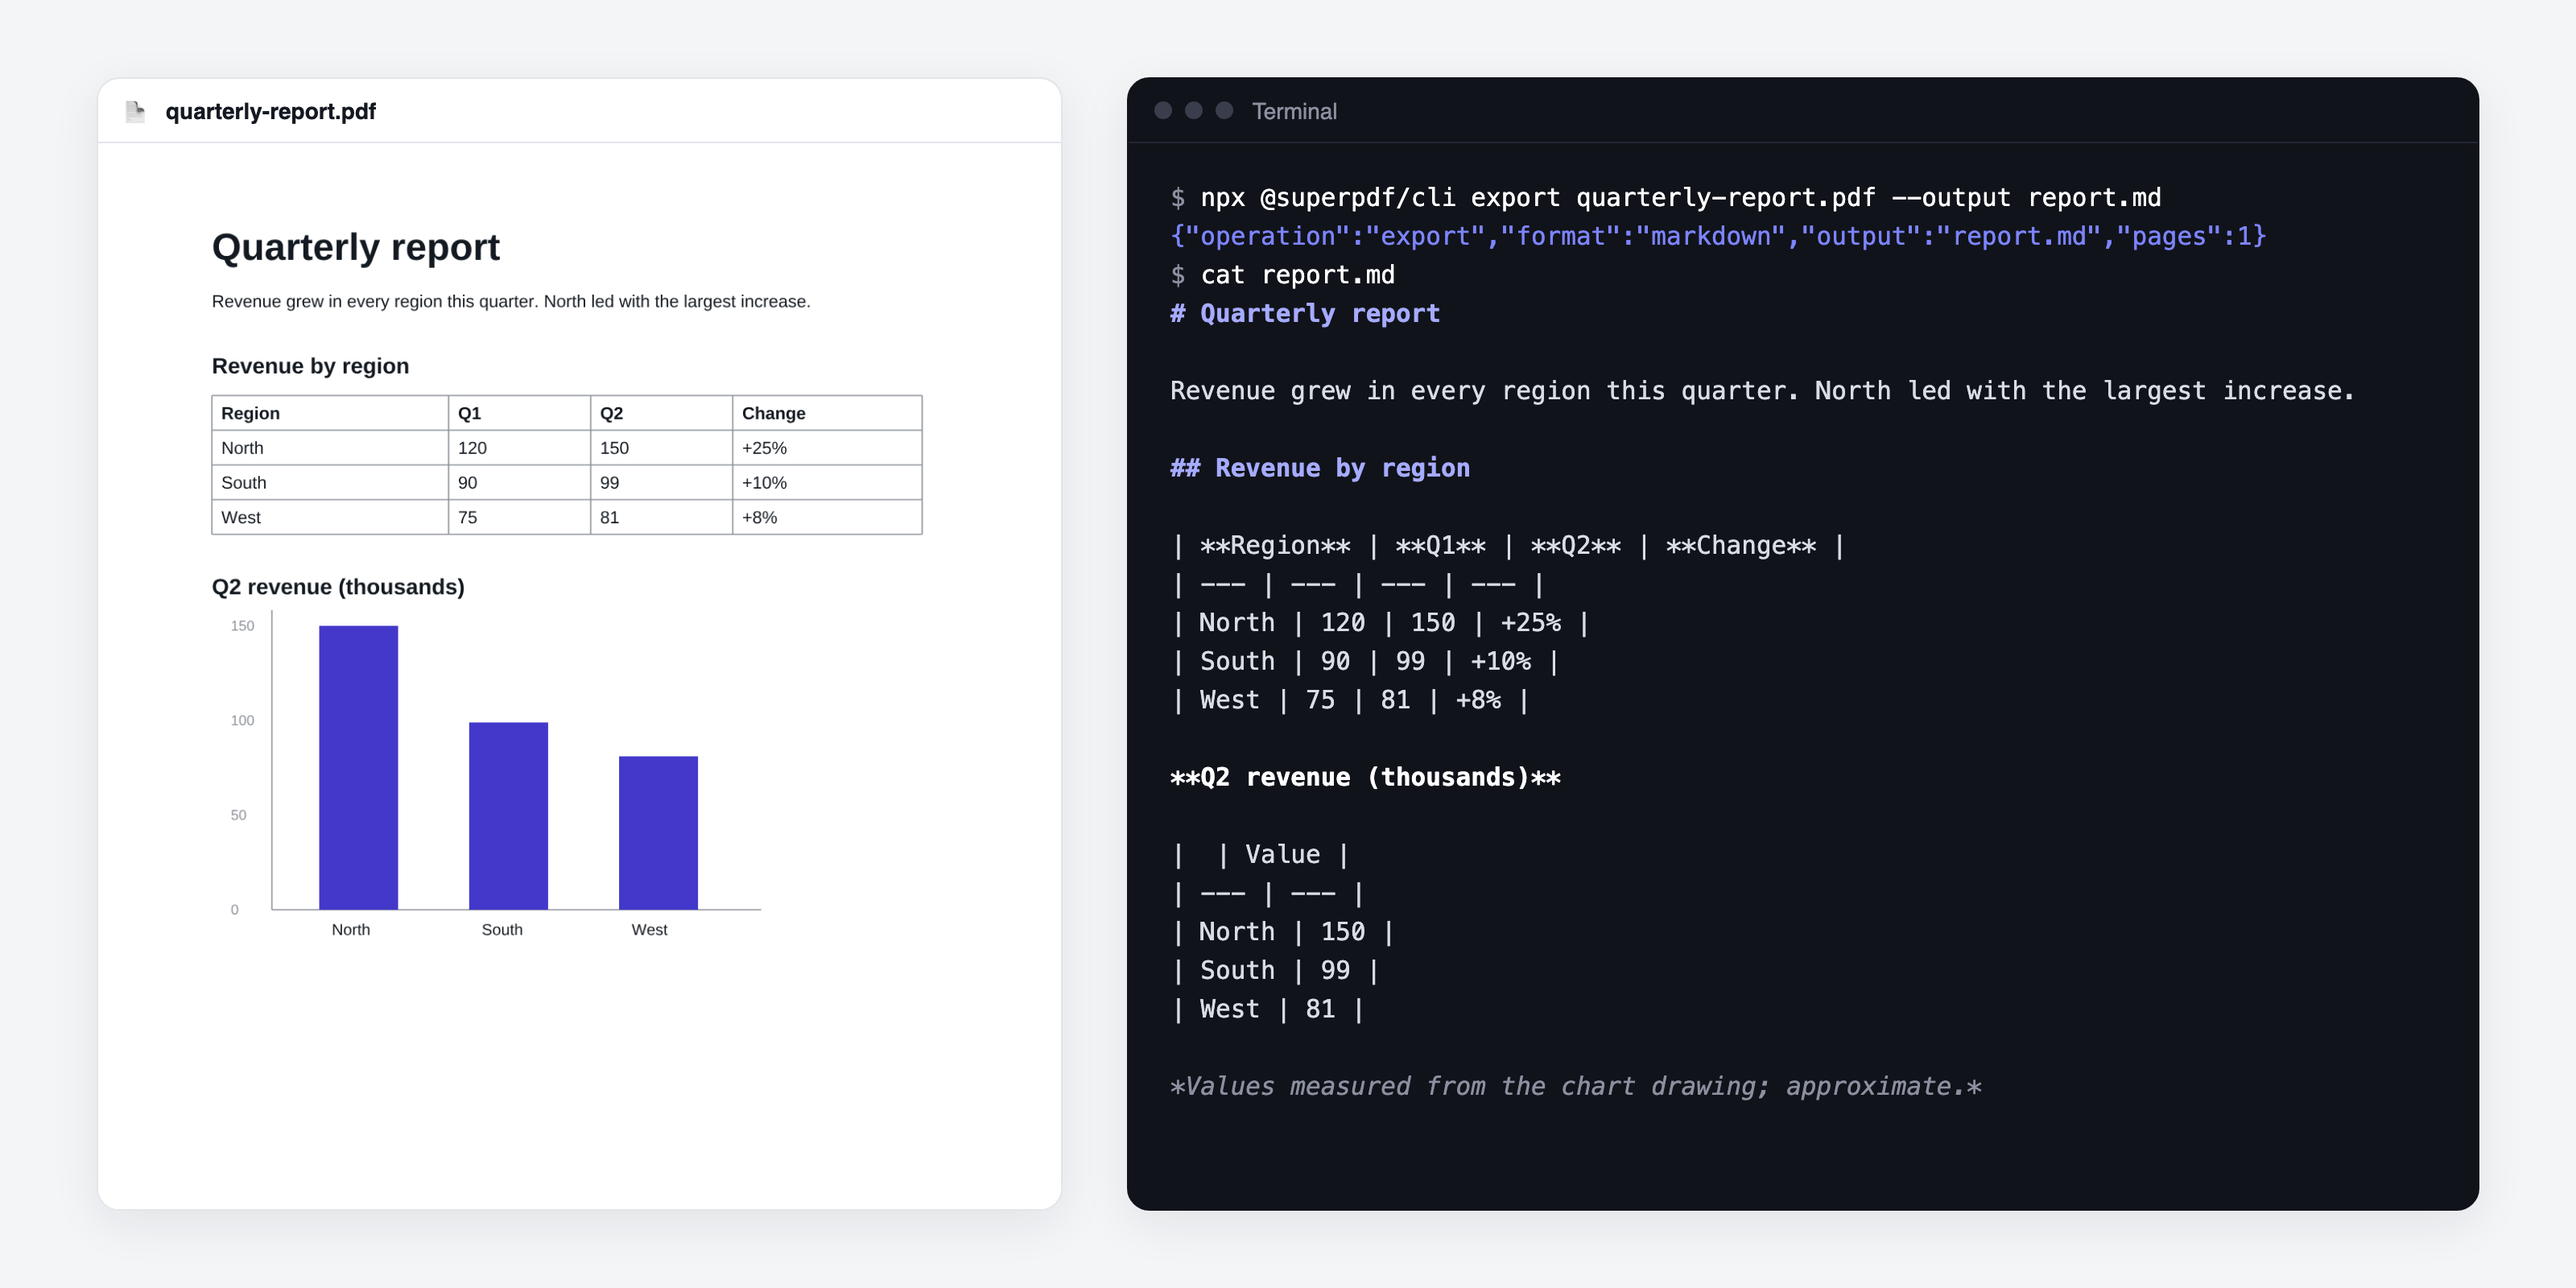
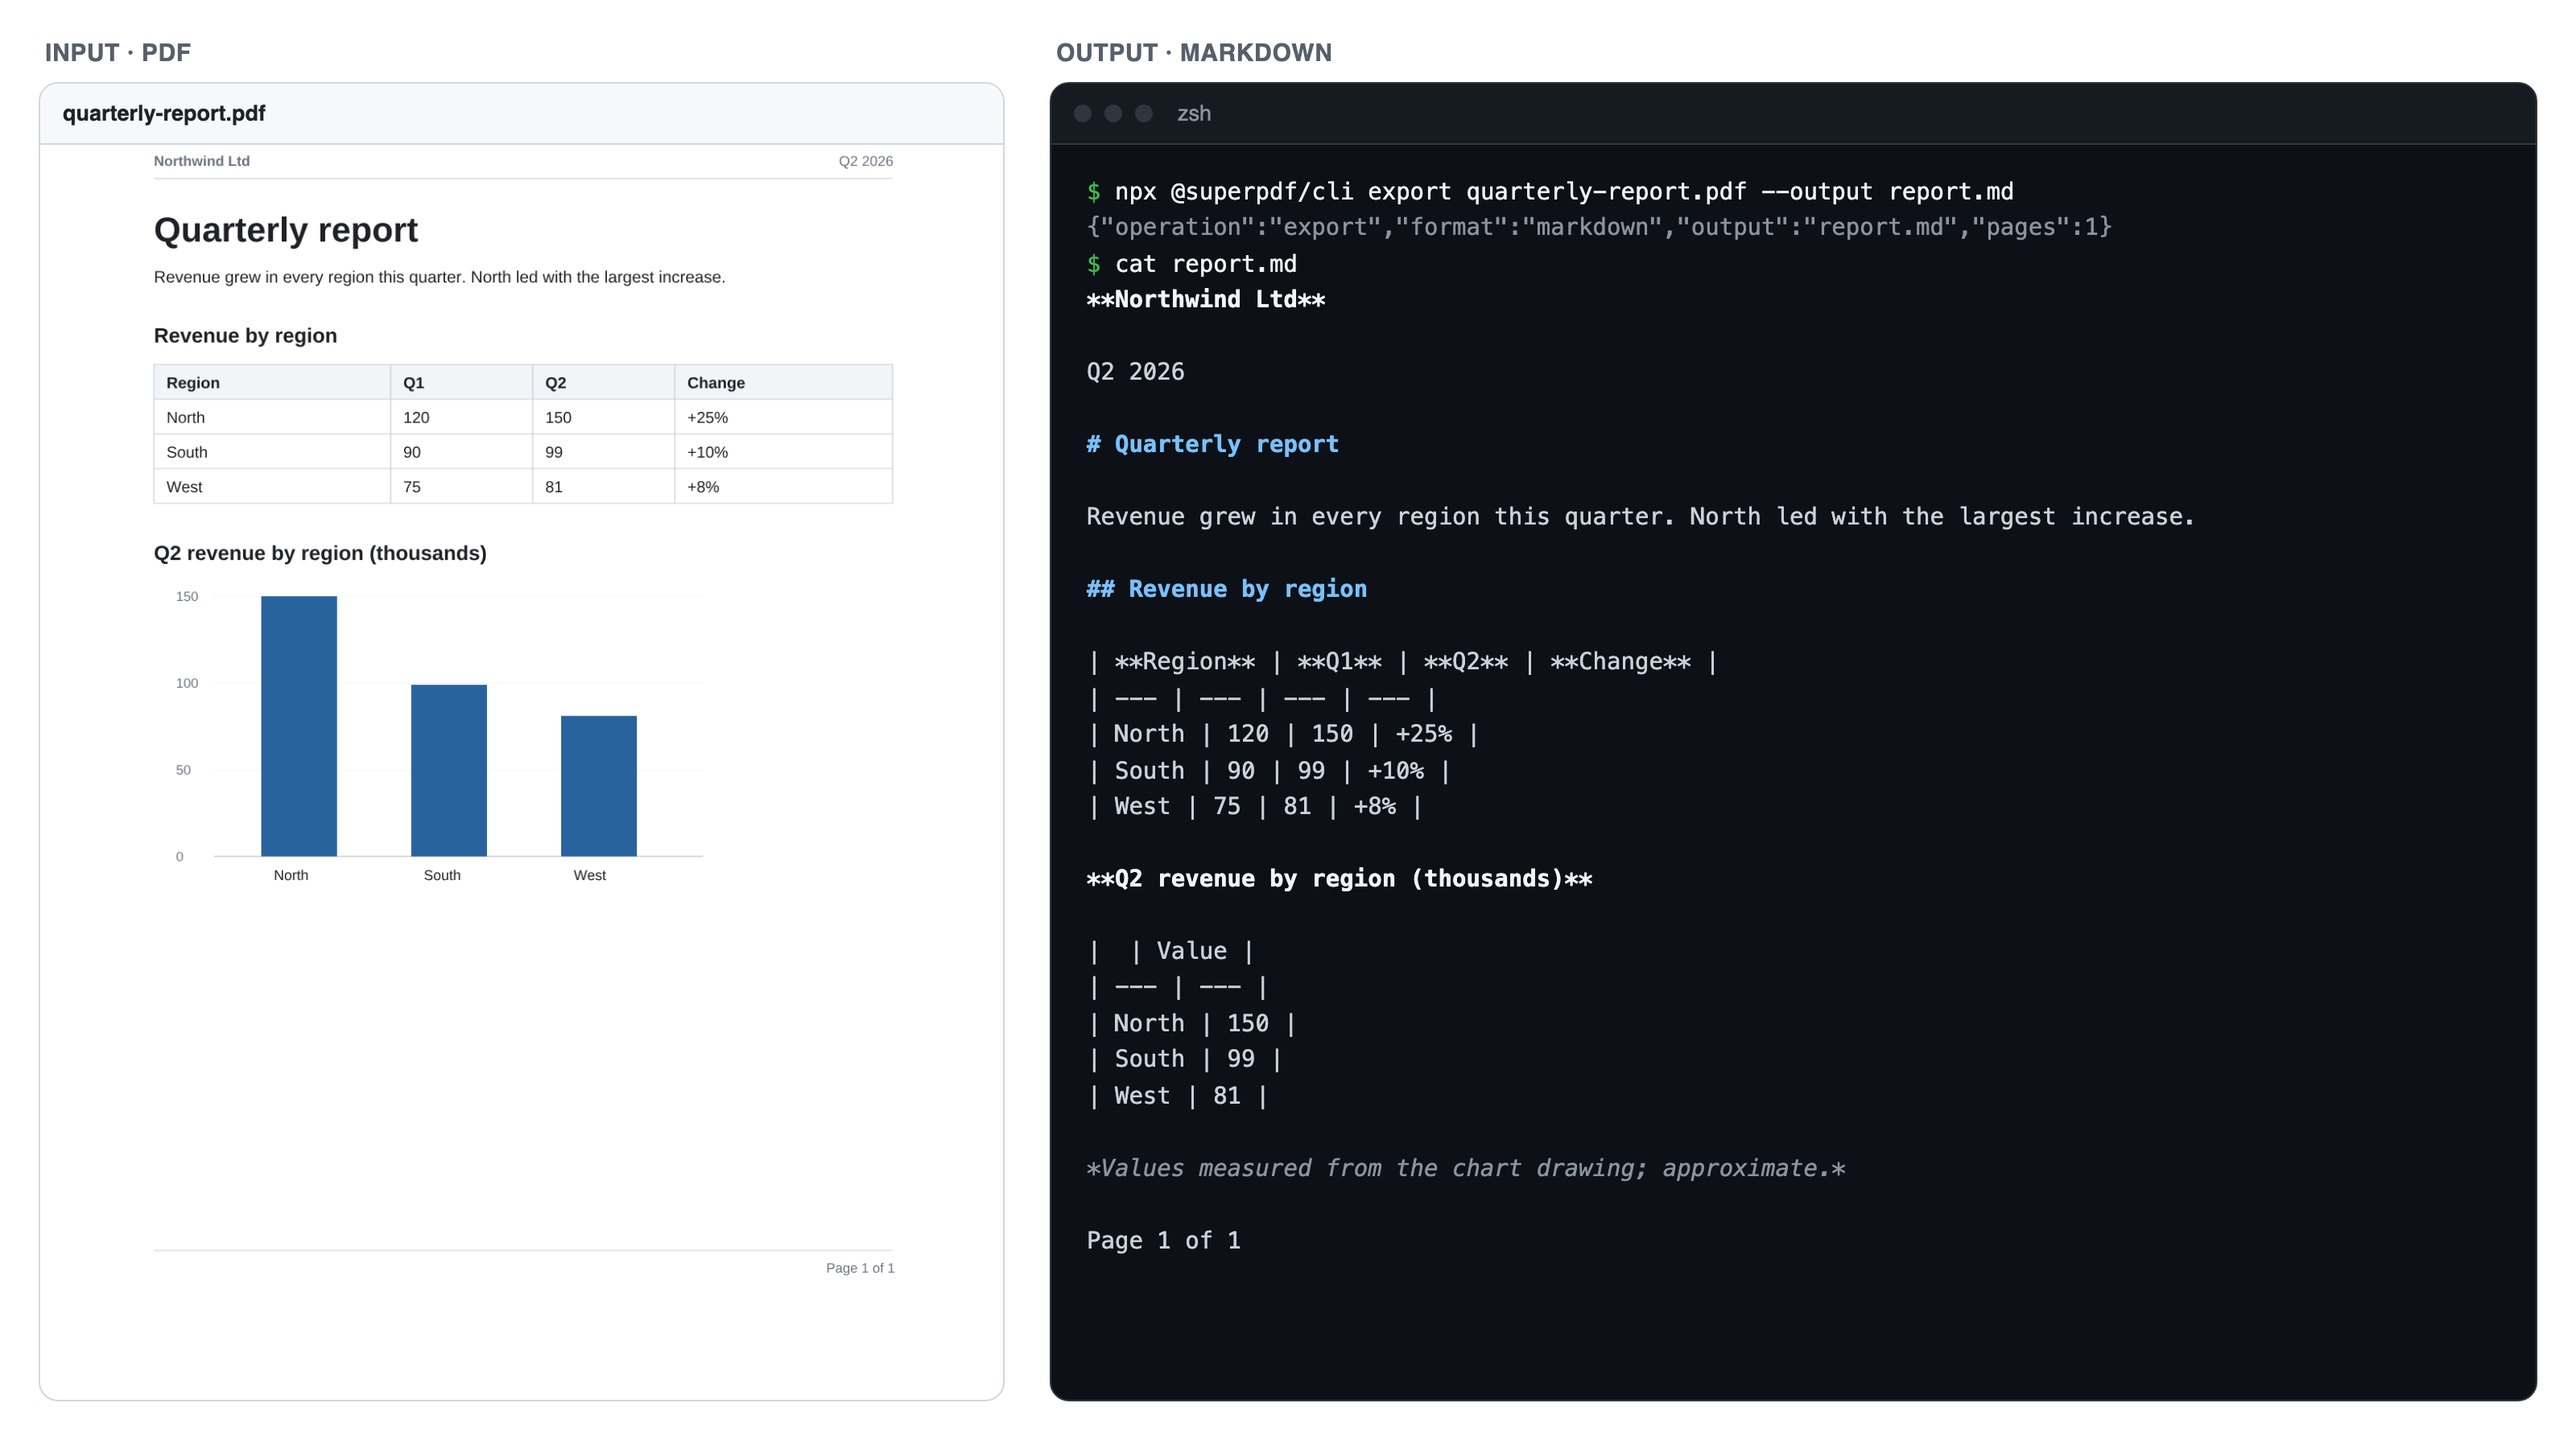
README image: a realistic report in, the real Markdown out; works on light and dark themes

diff --git a/examples/make-sample.js b/examples/make-sample.js
@@ -1,28 +1,42 @@
-// Makes examples/quarterly-report.pdf: a heading, a paragraph, a ruled table and a bar chart drawn as vector shapes,
-// like a typical exported report. Used for the README image and as a file to try the CLI on.
+// Makes examples/quarterly-report.pdf: a one-page business report with a header line, a heading, a paragraph, a ruled
+// table and a bar chart drawn as vector shapes, like a typical exported report. Used for the README image and as a file
+// to try the CLI on: `superpdf export examples/quarterly-report.pdf --output report.md`.
 import { PDFDocument, StandardFonts, rgb } from 'pdf-lib';
 import { writeFile } from 'node:fs/promises';
 
 const pdf = await PDFDocument.create();
 const font = await pdf.embedFont(StandardFonts.Helvetica), bold = await pdf.embedFont(StandardFonts.HelveticaBold);
 const page = pdf.addPage([612, 792]);
-const ink = rgb(0.08, 0.1, 0.13), indigo = rgb(0.263, 0.22, 0.792), grey = rgb(0.55, 0.57, 0.6);
-page.drawText('Quarterly report', { x: 72, y: 712, size: 24, font: bold, color: ink });
-page.drawText('Revenue grew in every region this quarter. North led with the largest increase.', { x: 72, y: 682, size: 11, font, color: ink });
-page.drawText('Revenue by region', { x: 72, y: 640, size: 14, font: bold, color: ink });
+const ink = rgb(0.12, 0.13, 0.15), muted = rgb(0.42, 0.45, 0.5), rule = rgb(0.78, 0.8, 0.83);
+const shade = rgb(0.95, 0.96, 0.97), bar = rgb(0.16, 0.39, 0.62);
+
+page.drawText('Northwind Ltd', { x: 72, y: 748, size: 9, font: bold, color: muted });
+page.drawText('Q2 2026', { x: 506, y: 748, size: 9, font, color: muted });
+page.drawLine({ start: { x: 72, y: 740 }, end: { x: 540, y: 740 }, thickness: 0.6, color: rule });
+
+page.drawText('Quarterly report', { x: 72, y: 700, size: 22, font: bold, color: ink });
+page.drawText('Revenue grew in every region this quarter. North led with the largest increase.', { x: 72, y: 674, size: 10.5, font, color: ink });
+
+page.drawText('Revenue by region', { x: 72, y: 636, size: 13, font: bold, color: ink });
 const rows = [['Region', 'Q1', 'Q2', 'Change'], ['North', '120', '150', '+25%'], ['South', '90', '99', '+10%'], ['West', '75', '81', '+8%']];
-const cols = [72, 222, 312, 402, 522], top = 626, h = 22;
-rows.forEach((row, r) => row.forEach((cell, c) => page.drawText(cell, { x: cols[c] + 6, y: top - (r + 1) * h + 7, size: 11, font: r ? font : bold, color: ink })));
-for (let r = 0; r <= rows.length; r++) page.drawLine({ start: { x: cols[0], y: top - r * h }, end: { x: cols.at(-1), y: top - r * h }, thickness: 0.8, color: grey });
-for (const x of cols) page.drawLine({ start: { x, y: top }, end: { x, y: top - rows.length * h }, thickness: 0.8, color: grey });
-page.drawText('Q2 revenue (thousands)', { x: 72, y: 500, size: 14, font: bold, color: ink });
-const base = 300, scale = 1.2, values = [['North', 150], ['South', 99], ['West', 81]];
-page.drawLine({ start: { x: 110, y: base }, end: { x: 110, y: base + 190 }, thickness: 0.8, color: grey });
-page.drawLine({ start: { x: 110, y: base }, end: { x: 420, y: base }, thickness: 0.8, color: grey });
-for (const v of [0, 50, 100, 150]) page.drawText(String(v), { x: 84, y: base + v * scale - 3, size: 9, font, color: grey });
-values.forEach(([label, v], i) => {
-  const x = 140 + i * 95;
-  page.drawRectangle({ x, y: base, width: 50, height: v * scale, color: indigo });
-  page.drawText(label, { x: x + 8, y: base - 16, size: 10, font, color: ink });
+const cols = [72, 222, 312, 402, 540], top = 622, h = 22;
+page.drawRectangle({ x: cols[0], y: top - h, width: cols.at(-1) - cols[0], height: h, color: shade });
+rows.forEach((row, r) => row.forEach((cell, c) => page.drawText(cell, { x: cols[c] + 8, y: top - (r + 1) * h + 7, size: 10, font: r ? font : bold, color: ink })));
+for (let r = 0; r <= rows.length; r++) page.drawLine({ start: { x: cols[0], y: top - r * h }, end: { x: cols.at(-1), y: top - r * h }, thickness: 0.6, color: rule });
+for (const x of cols) page.drawLine({ start: { x, y: top }, end: { x, y: top - rows.length * h }, thickness: 0.6, color: rule });
+
+page.drawText('Q2 revenue by region (thousands)', { x: 72, y: 498, size: 13, font: bold, color: ink });
+const base = 310, scale = 1.1, left = 110, right = 420;
+for (const v of [0, 50, 100, 150]) {
+  page.drawLine({ start: { x: left, y: base + v * scale }, end: { x: right, y: base + v * scale }, thickness: v ? 0.4 : 0.8, color: v ? shade : rule });
+  page.drawText(String(v), { x: left - 24, y: base + v * scale - 3, size: 8.5, font, color: muted });
+}
+[['North', 150], ['South', 99], ['West', 81]].forEach(([label, v], i) => {
+  const x = left + 30 + i * 95;
+  page.drawRectangle({ x, y: base, width: 48, height: v * scale, color: bar });
+  page.drawText(label, { x: x + 8, y: base - 15, size: 9, font, color: ink });
 });
+
+page.drawLine({ start: { x: 72, y: 60 }, end: { x: 540, y: 60 }, thickness: 0.6, color: rule });
+page.drawText('Page 1 of 1', { x: 498, y: 46, size: 8.5, font, color: muted });
 await writeFile(new URL('./quarterly-report.pdf', import.meta.url), await pdf.save());

diff --git a/README.md b/README.md
@@ -21,7 +21,7 @@
 
 <br><br>
 
-<img src="docs/assets/hero.png" alt="A report PDF with a heading, a table and a bar chart, and the Markdown superPDF writes from it: the heading levels, the table and the chart's values as a table" width="1000">
+<img src="docs/assets/hero.png" alt="Input: a one-page report PDF with a table and a bar chart. Output: the Markdown superPDF writes from it, with the heading levels, the table, and the chart's values as a table" width="1000">
 
 </div>
 
